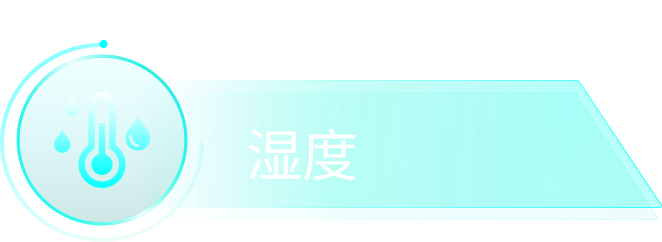
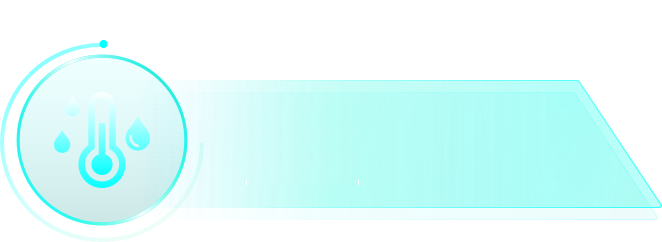
fix: 塘坝镇大屏气象监测部分title不对应问题

Changed region(s): [[0.3625, 0.5207, 0.5438, 0.7521]]

diff --git a/src/views/bigscreenTangBa/index.vue b/src/views/bigscreenTangBa/index.vue
@@ -363,6 +363,9 @@ export default defineComponent({
                               <span>{ item.dataValue }</span>
                               <span class="pl-1">{ item.unit }</span>
                             </div>
+                            <div class="absolute left-[60px] art-font text-[#fff] top-[30px] text-[14px]">
+                              <span>{ item.monitoringType }</span>
+                            </div>
                           </div>
                         </div>
                       ))
